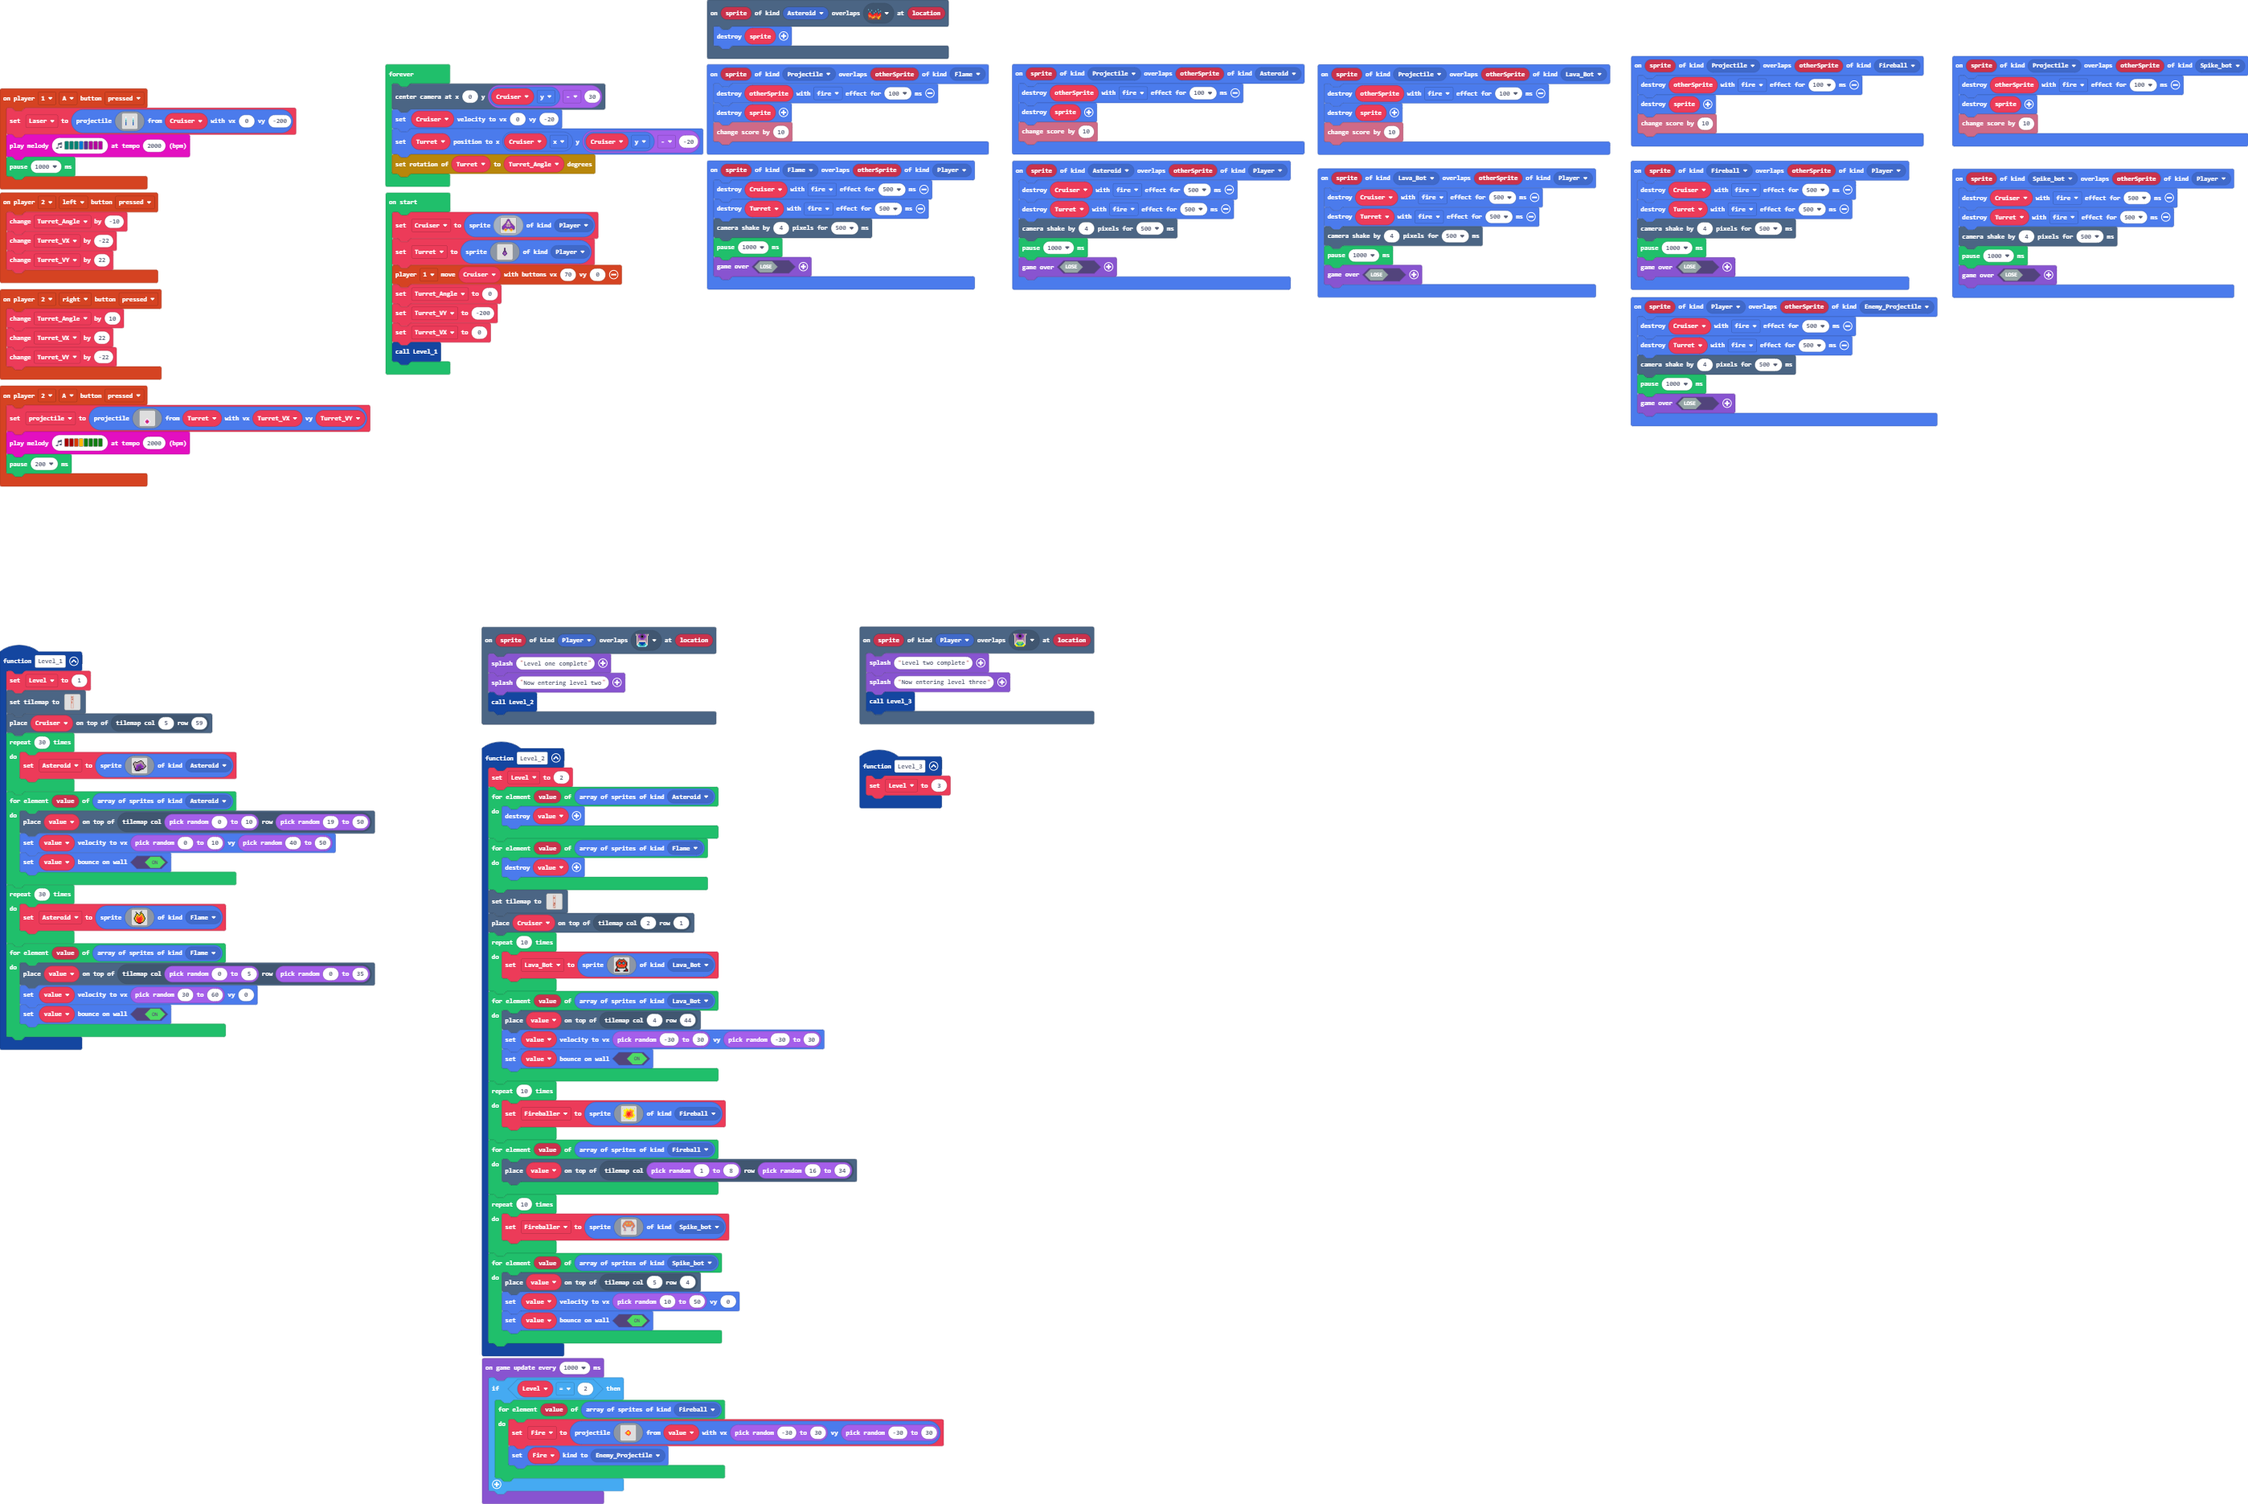
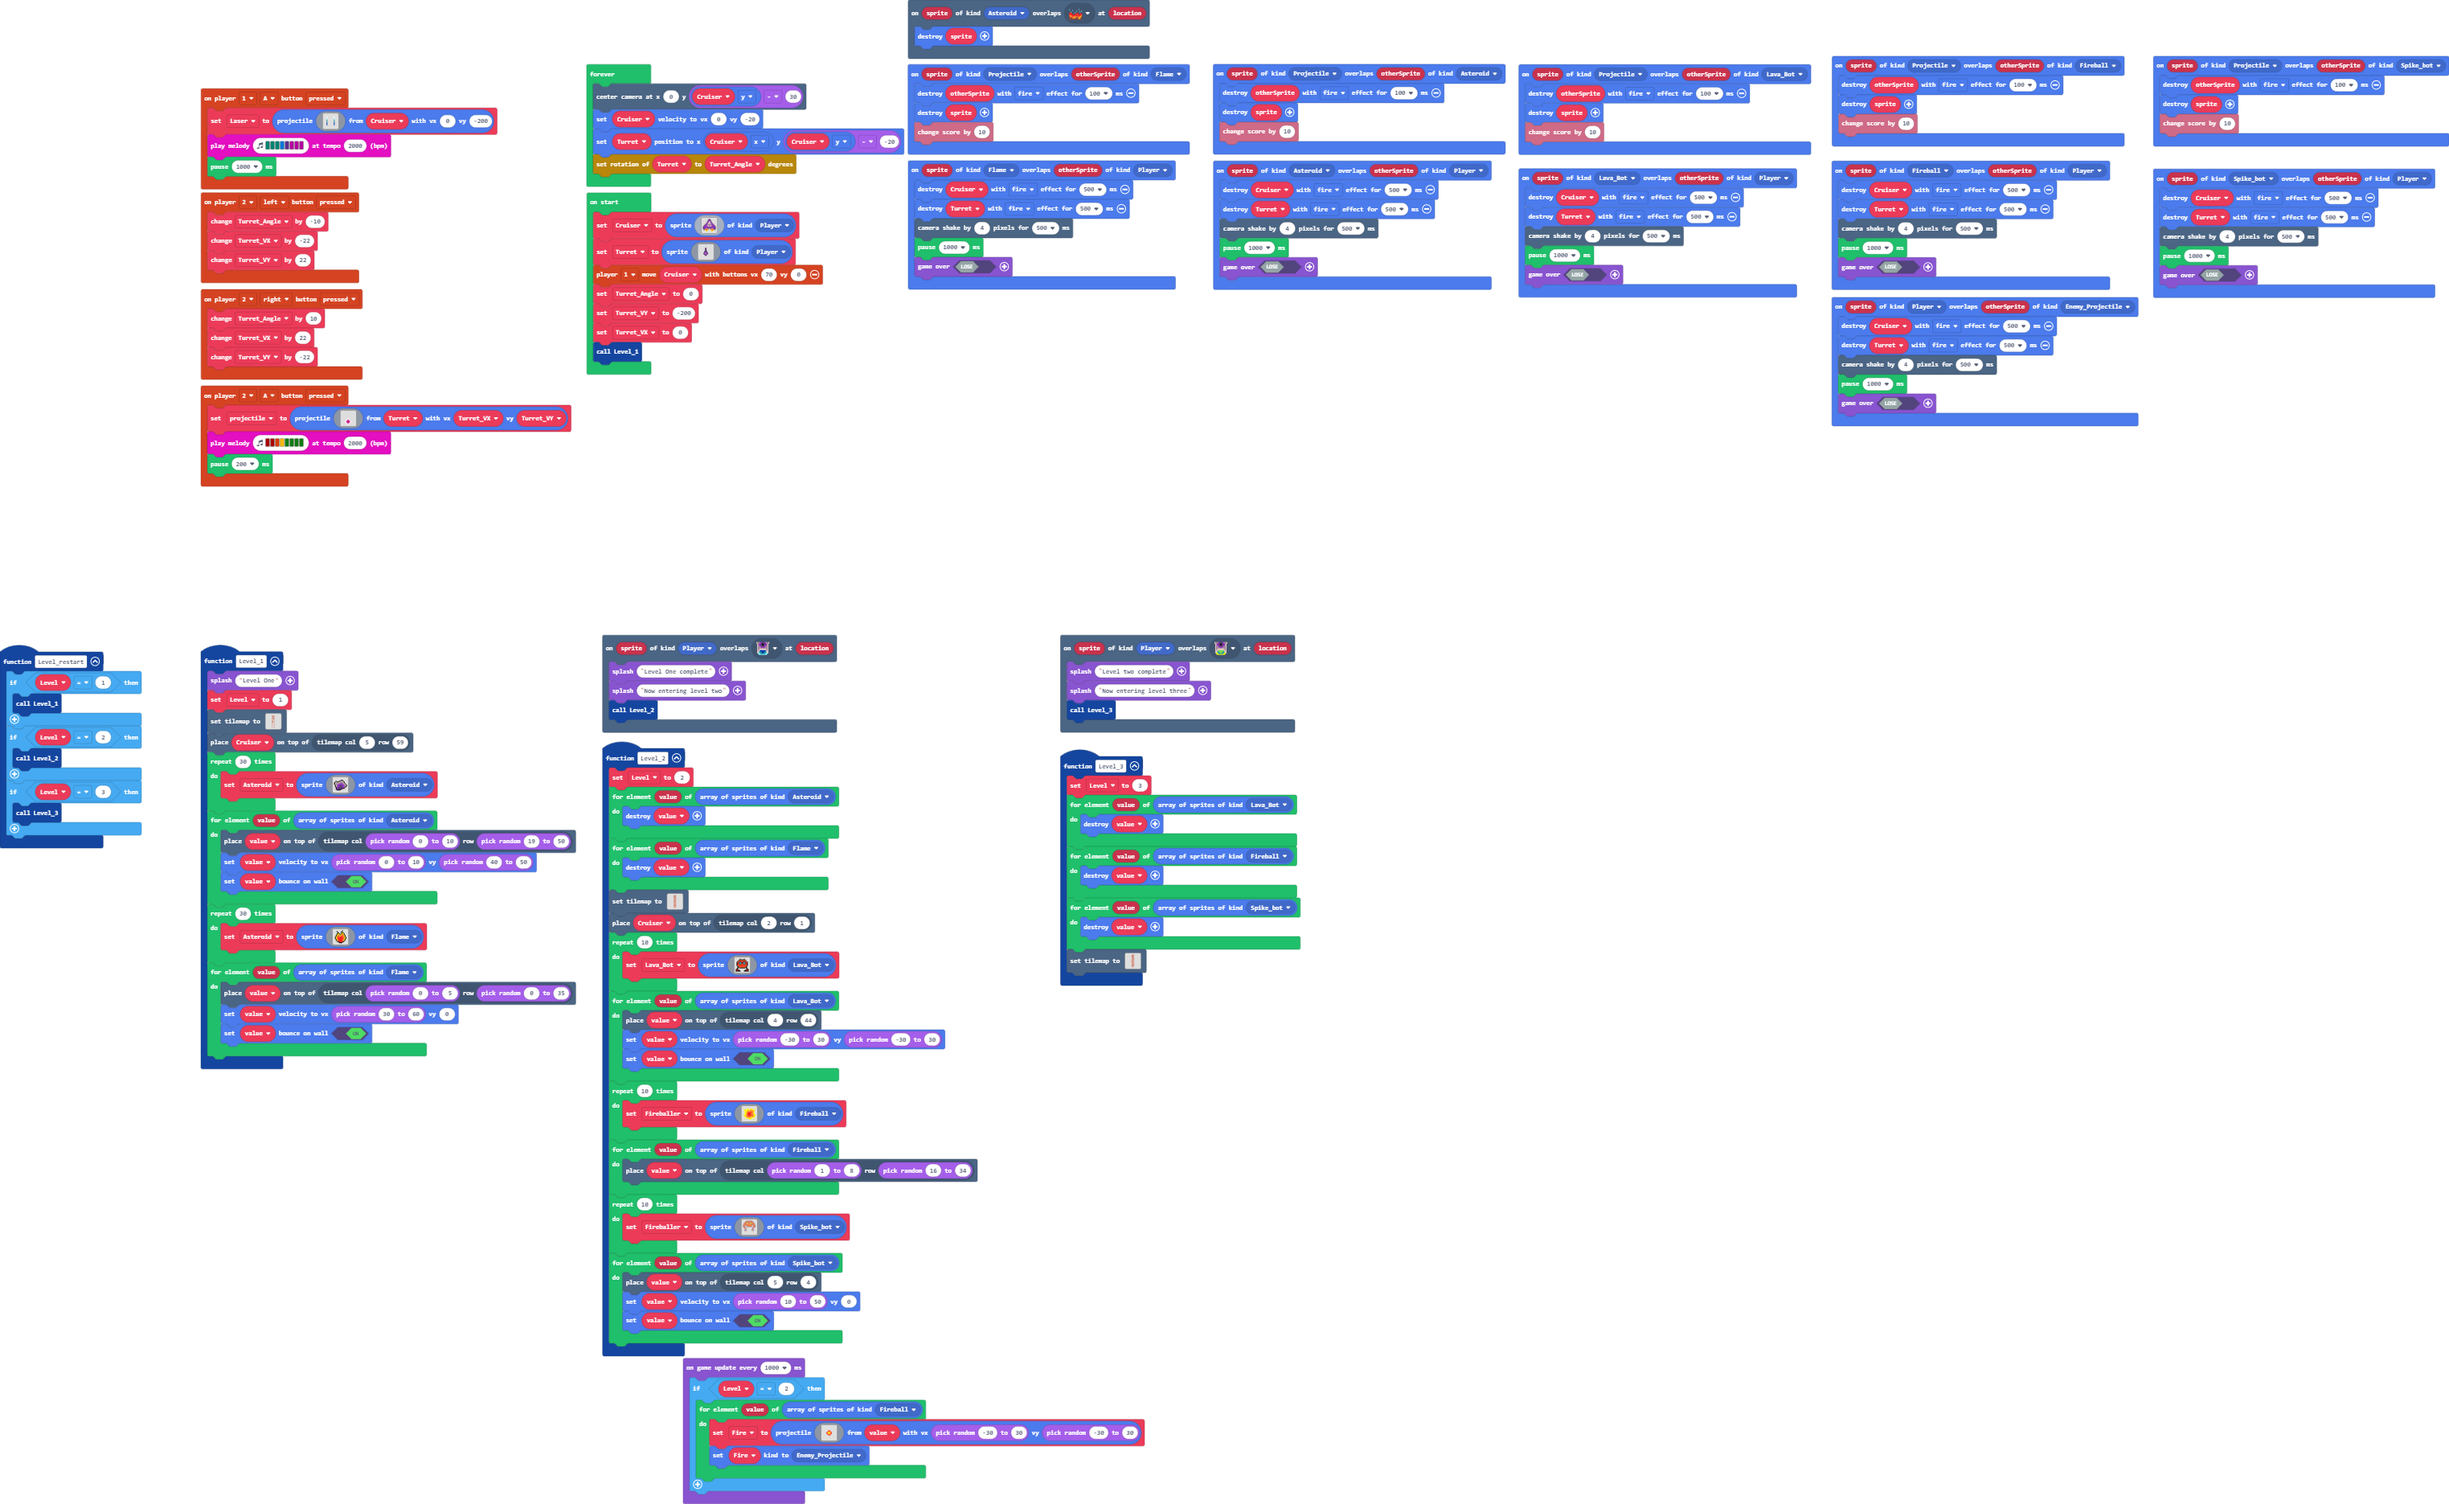
Update main.blocks, main.ts, tilemap.g.jres, tilemap.g.ts

Changed region(s): [[0.0, 0.0, 0.9954, 0.341], [0.0, 0.403, 0.4666, 1.0], [0.3733, 0.403, 0.5288, 0.682]]

diff --git a/tilemap.g.ts b/tilemap.g.ts
@@ -112,68 +112,87 @@ namespace myTiles {
 ..........
 ..........
 `, [myTiles.transparency16,myTiles.tile1,myTiles.tile3,myTiles.tile4,myTiles.tile5,myTiles.tile6,myTiles.tile7,myTiles.tile2,myTiles.tile8,myTiles.tile9,myTiles.tile10,myTiles.tile11,myTiles.tile12,myTiles.tile13,myTiles.tile14,myTiles.tile15,myTiles.tile16,myTiles.tile17,myTiles.tile18,myTiles.tile20,myTiles.tile21,myTiles.tile22], TileScale.Sixteen);
+            case "level3":
+            case "level3":return tiles.createTilemap(hex`1000100000000000000000000000000000000000000000000000000000000000000000000000000000000000000000000000000000000000000000000000000000000000000000000000000000000000000000000000000000000000000000000000000000000000000000000000000000000000000000000000000000000000000000000000000000000000000000000000000000000000000000000000000000000000000000000000000000000000000000000000000000000000000000000000000000000000000000000000000000000000000000000000000000000000000000000000000000000000000000000000000000000000000000000000000000000000`, img`
+. . . . . . . . . . . . . . . . 
+. . . . . . . . . . . . . . . . 
+. . . . . . . . . . . . . . . . 
+. . . . . . . . . . . . . . . . 
+. . . . . . . . . . . . . . . . 
+. . . . . . . . . . . . . . . . 
+. . . . . . . . . . . . . . . . 
+. . . . . . . . . . . . . . . . 
+. . . . . . . . . . . . . . . . 
+. . . . . . . . . . . . . . . . 
+. . . . . . . . . . . . . . . . 
+. . . . . . . . . . . . . . . . 
+. . . . . . . . . . . . . . . . 
+. . . . . . . . . . . . . . . . 
+. . . . . . . . . . . . . . . . 
+. . . . . . . . . . . . . . . . 
+`, [myTiles.transparency16], TileScale.Sixteen);
             case "level2":
[1 lines of base64/hex data omitted]
-..........
-..........
-..........
-..........
-..........
-..........
-..........
-..........
-..........
-..........
-..........
-2222222...
-2222222...
-2222222...
-2222222...
-..........
-..........
-..........
-..........
-..........
-..........
-..........
-..........
-..........
-..........
-..........
-..........
-..........
-..........
-..........
-..........
-..........
-..........
-..........
[1 lines of base64/hex data omitted]
 ..........
 ..........
 ...2222222
 ...2222222
-...2222222
-...2222222
-......2222
-......2222
-......2222
-22........
-22........
-22........
-22........
+..........
+..........
+..........
 222222....
 222222....
 ..........
 ..........
 ..........
+...2......
+...22.....
+....22....
+.....22...
+......22..
+.......222
+........22
+.........2
+..........
+..........
+..........
+..222222..
+..222222..
 ..........
 ..........
 ..........
 ..........
 ..........
-.....22222
-.....22222
-.....22222
+..22......
+..22......
+..22......
+..........
+......22..
+......22..
+..........
+..........
+..........
+..........
+..22......
+..22......
+..........
+......2...
+......2...
+..........
+..........
+......22..
+......22..
+..........
+..22......
+..222.....
+..222.....
+..........
+..........
+..........
+..........
+..........
+..........
+..........
 `, [myTiles.transparency16,myTiles.tile1,myTiles.tile3,myTiles.tile4,myTiles.tile5,myTiles.tile6,myTiles.tile7,myTiles.tile2,myTiles.tile8,myTiles.tile9,myTiles.tile10,myTiles.tile11,myTiles.tile12,myTiles.tile13,myTiles.tile14,myTiles.tile15,myTiles.tile16,myTiles.tile17,myTiles.tile19], TileScale.Sixteen);
         }
         return null;

diff --git a/main.ts b/main.ts
@@ -6,12 +6,24 @@ namespace SpriteKind {
     export const Enemy_Projectile = SpriteKind.create()
     export const Spike_bot = SpriteKind.create()
 }
+function Level_restart () {
+    if (Level == 1) {
+        Level_1()
+    }
+    if (Level == 2) {
+        Level_2()
+    }
+    if (Level == 3) {
+        Level_3()
+    }
+}
 sprites.onOverlap(SpriteKind.Projectile, SpriteKind.Lava_Bot, function (sprite, otherSprite) {
     otherSprite.destroy(effects.fire, 100)
     sprite.destroy()
     info.changeScoreBy(10)
 })
 function Level_1 () {
+    game.splash("Level One")
     Level = 1
     tiles.setTilemap(tilemap`level1 -`)
     tiles.placeOnTile(Cruiser, tiles.getTileLocation(5, 59))
@@ -115,7 +127,7 @@ sprites.onOverlap(SpriteKind.Lava_Bot, SpriteKind.Player, function (sprite, othe
     game.over(false)
 })
 scene.onOverlapTile(SpriteKind.Player, assets.tile`myTile16`, function (sprite, location) {
-    game.splash("Level one complete")
+    game.splash("Level One complete")
     game.splash("Now entering level two")
     Level_2()
 })
@@ -192,6 +204,16 @@ sprites.onOverlap(SpriteKind.Asteroid, SpriteKind.Player, function (sprite, othe
 })
 function Level_3 () {
     Level = 3
+    for (let value of sprites.allOfKind(SpriteKind.Lava_Bot)) {
+        value.destroy()
+    }
+    for (let value of sprites.allOfKind(SpriteKind.Fireball)) {
+        value.destroy()
+    }
+    for (let value of sprites.allOfKind(SpriteKind.Spike_bot)) {
+        value.destroy()
+    }
+    tiles.setTilemap(tilemap`level2`)
 }
 function Level_2 () {
     Level = 2
